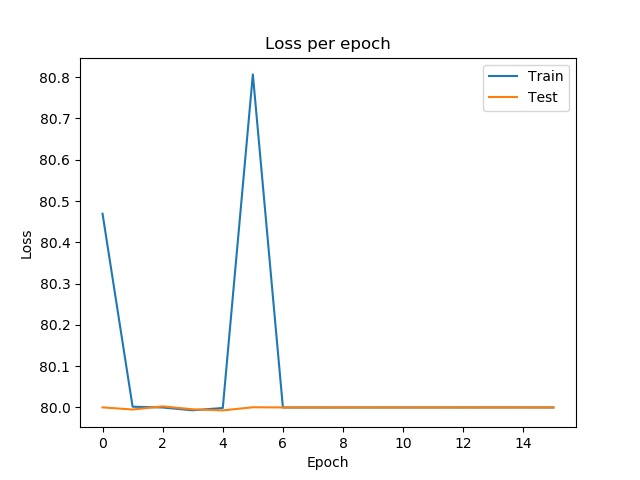
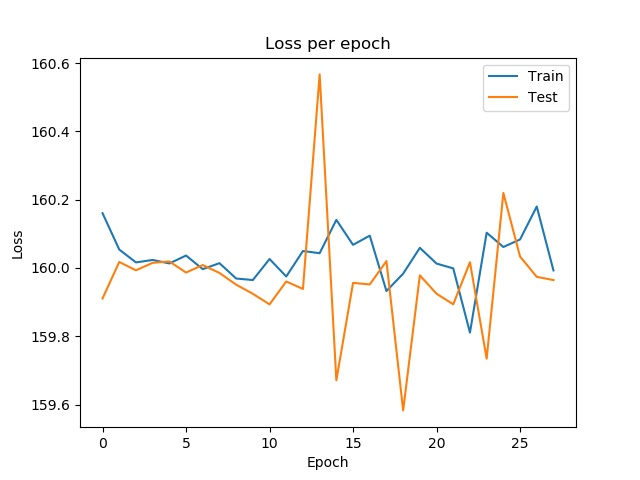
running??

diff --git a/model_cifar_transformer.py b/model_cifar_transformer.py
@@ -20,7 +20,7 @@ class Model(tf.keras.Model):
 
         self.similarity = tf.keras.losses.CosineSimilarity(axis = 1)
 
-        self.kqv_size = 64
+        self.kqv_size = 256
         self.embedding_size = 256
 
         self.W_k = tf.Variable(tf.random.truncated_normal([self.embedding_size, self.kqv_size], mean=0.0, stddev=.1))
@@ -29,7 +29,7 @@ class Model(tf.keras.Model):
 
         self.W_q1 = tf.constant(tf.identity(self.W_q))
 
-        self.dense = tf.keras.layers.Dense(self.embedding_size, activation='relu')
+        self.dense = tf.keras.layers.Dense(self.embedding_size)
 
         
         self.example_batch_size = 5
@@ -37,17 +37,17 @@ class Model(tf.keras.Model):
         self.loss_list = []
         self.acc_list = []
 
-        self.learning_rate = 0.01
+        self.learning_rate = 0.001
         self.optimizer = tf.keras.optimizers.Adam(learning_rate=self.learning_rate)
 
-        self.conv_1 = tf.keras.layers.Conv2D(32, 3, strides = (2,2), padding='SAME', activation='elu', kernel_initializer=tf.random_normal_initializer(stddev=0.1))
-        self.conv_2 = tf.keras.layers.Conv2D(32, 3, strides = (1,1), activation='elu', kernel_initializer=tf.random_normal_initializer(stddev=0.1))
+        self.conv_1 = tf.keras.layers.Conv2D(32, 3, strides = (2,2), padding='SAME', activation='elu', kernel_initializer=tf.random_normal_initializer(stddev=0.01))
+        self.conv_2 = tf.keras.layers.Conv2D(32, 3, strides = (1,1), activation='elu', kernel_initializer=tf.random_normal_initializer(stddev=0.01))
         self.pool_1 = tf.keras.layers.MaxPooling2D(pool_size=(2,2))
 
         #self.normalize1 = tf.keras.layers.BatchNormalization()
 
-        self.conv_3 = tf.keras.layers.Conv2D(64, 3, strides = (1,1), padding='SAME', activation='elu', kernel_initializer=tf.random_normal_initializer(stddev=0.1))
-        self.conv_4 = tf.keras.layers.Conv2D(64, 3, strides = (1,1), activation='elu', kernel_initializer=tf.random_normal_initializer(stddev=0.1))
+        self.conv_3 = tf.keras.layers.Conv2D(64, 3, strides = (1,1), padding='SAME', activation='elu', kernel_initializer=tf.random_normal_initializer(stddev=0.01))
+        self.conv_4 = tf.keras.layers.Conv2D(64, 3, strides = (1,1), activation='elu', kernel_initializer=tf.random_normal_initializer(stddev=0.01))
         self.pool_2 = tf.keras.layers.MaxPooling2D(pool_size=(2,2))
 
         #self.embed = tf.keras.layers.Dense(128, activation='elu', kernel_initializer=tf.random_normal_initializer(stddev=0.1))
@@ -142,7 +142,7 @@ class Model(tf.keras.Model):
         Calculates the model cross-entropy loss after one forward pass.
         """
         #return tf.reduce_mean(tf.nn.softmax_cross_entropy_with_logits(labels, logits))
-        return tf.reduce_sum(tf.square(logits - tf.cast(labels, tf.float32)))
+        return tf.reduce_sum(tf.abs(logits - tf.cast(labels, tf.float32)))
 
     def accuracy(self, logits, labels):
         """
